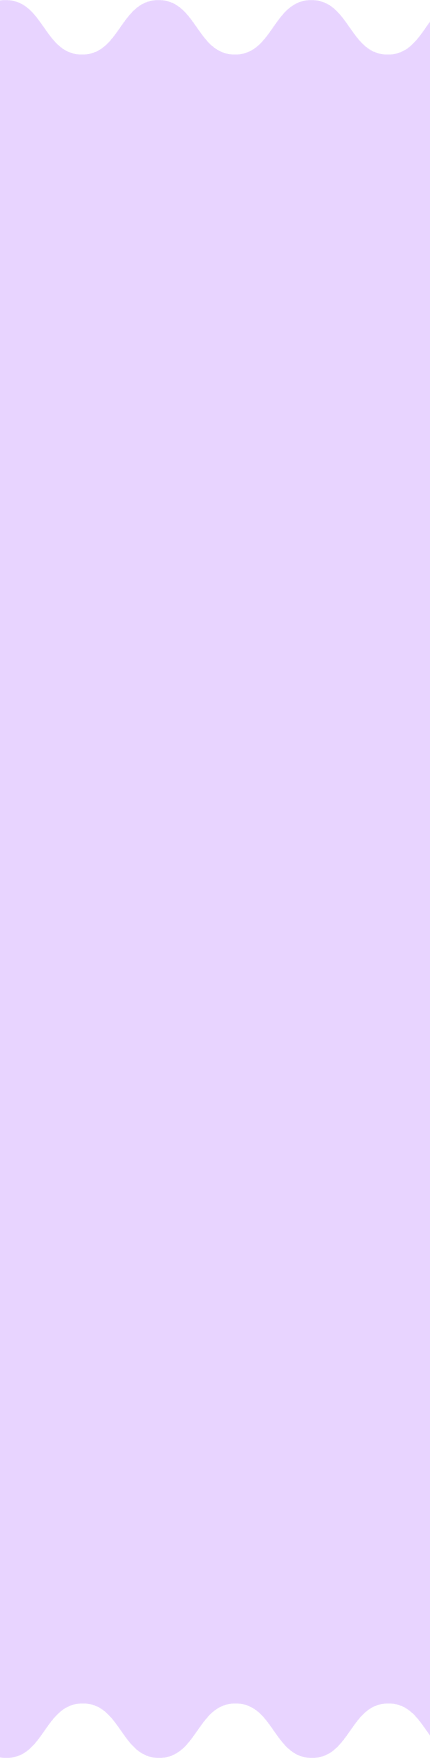
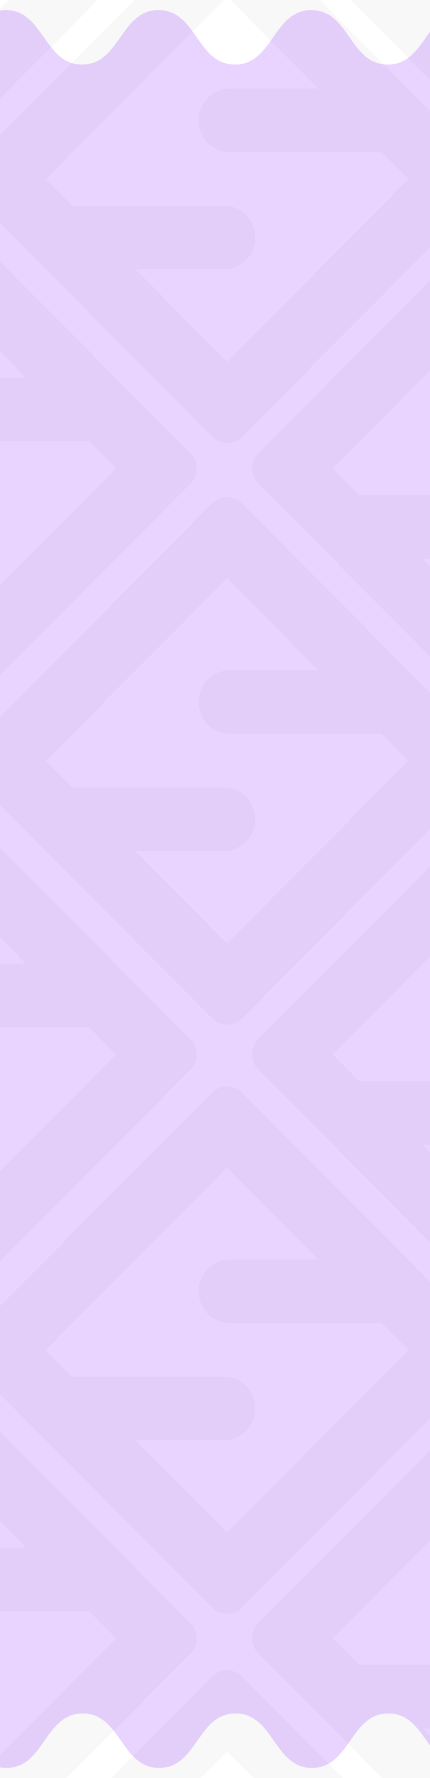
first commit

diff --git a/src/components/CallToAction.tsx b/src/components/CallToAction.tsx
@@ -2,57 +2,194 @@ import React from 'react'
 import { Button } from './ui/Button'
 import { motion } from 'framer-motion'
 import Image from 'next/image'
+import { useMediaQuery } from '@/hooks/useMediaQuery'
+
 function CallToAction() {
+  const isMD = useMediaQuery('(min-width: 768px)')
+  const containerVariants = {
+    hidden: { opacity: 0 },
+    visible: {
+      opacity: 1,
+      transition: {
+        staggerChildren: 0.2,
+        delayChildren: 0.1,
+      },
+    },
+  }
+
+  const itemVariants = {
+    hidden: { opacity: 0, y: 30 },
+    visible: {
+      opacity: 1,
+      y: 0,
+      transition: {
+        duration: 0.6,
+        ease: [0.25, 0.46, 0.45, 0.94],
+      },
+    },
+  }
+
+  const cardVariants = {
+    hidden: { opacity: 0, scale: 0.8, rotateY: -15 },
+    visible: {
+      opacity: 1,
+      scale: 1,
+      rotateY: 0,
+      transition: {
+        duration: 0.8,
+        ease: [0.25, 0.46, 0.45, 0.94],
+      },
+    },
+  }
+
+  const floatingVariants = {
+    animate: {
+      y: [-5, 5, -5],
+      rotate: [-1, 1, -1],
+      transition: {
+        duration: 6,
+        repeat: Infinity,
+        ease: 'easeInOut',
+      },
+    },
+  }
+
   return (
-    <section className="bg-[url('/assets/bg3sm.png')] md:bg-[url('/assets/bg3.png')] bg-contain bg-no-repeat bg-center min-h-screen p-20">
+    <section
+      className="py-[80px] relative min-h-screen flex flex-col justify-center items-center overflow-hidden"
+      role="region"
+      aria-labelledby="community-heading"
+    >
+      {/* Background */}
+      <div
+        className="absolute inset-0 h-full"
+        style={{
+          backgroundImage: isMD
+            ? 'url("/assets/bg3.png")'
+            : 'url("/assets/bg3sm.png")',
+          backgroundRepeat: 'no-repeat',
+          backgroundSize: '100% 100%',
+          backgroundBlendMode: 'overlay',
+        }}
+      />
+
       <motion.div
-        initial={{ opacity: 0, y: 30 }}
-        whileInView={{ opacity: 1, y: 0 }}
-        viewport={{ once: true, margin: '-100px' }}
-        transition={{ duration: 0.8, ease: 'easeOut' }}
-        className="text-center mb-12 lg:mb-16 px-4"
+        variants={containerVariants}
+        initial="hidden"
+        whileInView="visible"
+        viewport={{ once: true, margin: '-50px' }}
+        className="container mx-auto px-4 py-12 md:py-20 relative z-10"
       >
-        <h2
-          id="community-heading"
-          className="text-[#271437] text-3xl sm:text-4xl lg:text-6xl xl:text-7xl font-black leading-tight tracking-tight mb-4"
-        >
-          JOIN AN ECOSYSTEM THAT KEEPS GIVING
-        </h2>
-
-        <motion.p
-          initial={{ opacity: 0 }}
-          whileInView={{ opacity: 1 }}
-          transition={{ delay: 0.3, duration: 0.6 }}
-          className="text-[#402562] text-sm sm:text-base mb-8 max-w-md mx-auto"
-        >
-          Our values are more than just words—they are the guiding principles
-          that shape our company culture, help us navigate challenges, and
-          ensure we stay true to our purpose.
-        </motion.p>
-
-        <motion.div
-          initial={{ opacity: 0, scale: 0.8 }}
-          animate={{ opacity: 1, scale: 1 }}
-          transition={{ duration: 0.6, delay: 1 }}
-        >
-          <Button
-            size="lg"
-            variant="secondary"
-            aria-label="Sign Up on Squads"
-            className="text-[#2A343F] bg-light-green hover:bg-light-green/80 font-bold px-8 py-4 rounded-md text-lg transition-all duration-300 transform hover:scale-105 hover:shadow-2xl"
+        {/* Header Section */}
+        <div className="text-center mb-12 md:mb-16 lg:mb-20">
+          <motion.h2
+            variants={itemVariants}
+            id="community-heading"
+            className="text-[#271437] text-3xl sm:text-4xl md:text-5xl lg:text-6xl xl:text-7xl font-black leading-[1.1] tracking-tight mb-6 md:mb-8 max-w-4xl mx-auto"
           >
-            Sign Up on Squads
-            <Image
-              src="/assets/cash.png"
-              alt="Play cash"
-              width={20}
-              height={20}
-              className="ml-2"
-            />
-          </Button>
-        </motion.div>
+            JOIN AN ECOSYSTEM THAT KEEPS GIVING
+          </motion.h2>
+
+          <motion.p
+            variants={itemVariants}
+            className="text-[#402562] text-sm sm:text-base md:text-lg leading-relaxed mb-8 md:mb-12 max-w-4xl mx-auto px-4"
+          >
+            Our values are more than just words—they are the guiding principles
+            that shape our company culture, help us navigate challenges, and
+            ensure we stay true to our purpose.
+          </motion.p>
+
+          <motion.div variants={itemVariants} className="mb-12 md:mb-16">
+            <Button
+              size="lg"
+              variant="secondary"
+              aria-label="Sign Up on Squads to join our ecosystem"
+              className="text-[#2A343F] bg-light-green hover:bg-light-green/80 font-bold px-6 py-3 md:px-8 md:py-4 rounded-md text-base md:text-lg transition-all duration-300 transform hover:scale-105 hover:shadow-lg active:scale-95 focus:outline-none"
+            >
+              Sign Up on Squads
+              <Image
+                src="/assets/cash.png"
+                alt=""
+                width={20}
+                height={20}
+                className="ml-2"
+                loading="lazy"
+              />
+            </Button>
+          </motion.div>
+        </div>
+
+        {/* Cards Section */}
+        <div className="relative">
+          <div className="h-fit flex flex-col lg:flex-row justify-center items-center w-full py-10 px-4">
+            {/* Promo Cash */}
+            <div className="relative w-full max-w-[320px] aspect-[6/7] translate-y-[15%] lg:translate-x-[10%]">
+              <motion.div
+                variants={cardVariants}
+                animate={floatingVariants.animate}
+                className="relative w-full h-full"
+              >
+                <Image
+                  src="/assets/cta/promo-card.png"
+                  alt="₦500 Promo Cash"
+                  fill
+                  className="object-contain"
+                  loading="lazy"
+                  quality={90}
+                />
+              </motion.div>
+            </div>
+            {/* Deposit Boost */}
+            <div className="relative w-full max-w-[320px] aspect-[6/7] z-10 lg:translate-y-[10%]">
+              <motion.div
+                variants={cardVariants}
+                animate={{
+                  y: [0, -8, 0],
+                  transition: {
+                    duration: 5,
+                    repeat: Infinity,
+                    ease: 'easeInOut',
+                    delay: 1,
+                  },
+                }}
+                className="relative w-full h-full"
+              >
+                <Image
+                  src="/assets/cta/deposit-boost-card.png"
+                  alt="Deposit Boost"
+                  fill
+                  loading="lazy"
+                  className="object-contain"
+                  quality={90}
+                />
+              </motion.div>
+            </div>
+            {/* Sneaky Cash */}
+            <div className="relative w-full max-w-[320px] aspect-[6/7] max-lg:-rotate-[12.71deg] -translate-y-[13%] lg:-translate-x-[17%]">
+              <motion.div
+                variants={cardVariants}
+                animate={{
+                  ...floatingVariants.animate,
+                  transition: {
+                    ...floatingVariants.animate.transition,
+                    delay: 2,
+                  },
+                }}
+                className="relative w-full h-full"
+              >
+                <Image
+                  src="/assets/cta/sneaky-cash-card.png"
+                  alt="Sneaky Cash"
+                  fill
+                  loading="lazy"
+                  className="object-contain"
+                  quality={90}
+                />
+              </motion.div>
+            </div>
+          </div>
+        </div>
       </motion.div>
-      <div></div>
     </section>
   )
 }

diff --git a/src/components/Community.tsx b/src/components/Community.tsx
@@ -68,10 +68,10 @@ const Community: React.FC = () => {
                 transition={{ duration: 0.6, delay: 0.1 }}
                 className="bg-[#1F2935] border-2 border-[#232D39] rounded-xl w-full lg:w-[340px] lg:flex-shrink-0"
               >
-                <div className="bg-[url('/assets/card1bg.png')] bg-cover bg-center p-4 sm:p-6 flex flex-col h-full w-full">
+                <div className="bg-[url('/assets/community/card1bg.png')] bg-cover bg-center p-4 sm:p-6 flex flex-col h-full w-full">
                   <div className="relative w-[80px] sm:w-[100px] h-[80px] sm:h-[100px] mb-4 sm:mb-6 ">
                     <Image
-                      src="/assets/register.svg"
+                      src="/assets/community/register.svg"
                       alt="Register"
                       fill
                       className="object-contain"
@@ -101,10 +101,10 @@ const Community: React.FC = () => {
                 transition={{ duration: 0.6, delay: 0.2 }}
                 className="bg-[#1F2935] border border-[#232D39] rounded-xl flex-1"
               >
-                <div className="bg-[url('/assets/card2bg.png')] bg-cover bg-center lg:pl-0 pb-[0_!important] h-full w-full p-4 sm:p-6 flex max-lg:flex-col-reverse sm:items-center gap-4 sm:gap-6">
+                <div className="bg-[url('/assets/community/card2bg.png')] bg-cover bg-center lg:pl-0 pb-[0_!important] h-full w-full p-4 sm:p-6 flex max-lg:flex-col-reverse sm:items-center gap-4 sm:gap-6">
                   <div className="relative w-full w-full lg:w-[200px] h-[290px] sm:h-[360px] md:h-[460px] lg:h-full flex-shrink-0">
                     <Image
-                      src={`/assets/fundAccount${isLG ? '' : 'sm'}.svg`}
+                      src={`/assets/community/fundAccount${isLG ? '' : 'sm'}.svg`}
                       alt="Fund Account"
                       fill
                       className="lg:object-contain object-top object-cover lg:object-left"
@@ -137,10 +137,10 @@ const Community: React.FC = () => {
                 transition={{ duration: 0.6, delay: 0.3 }}
                 className="bg-[#1F2935] border border-[#232D39] rounded-xl flex-1"
               >
-                <div className="bg-[url('/assets/card3bg.png')] bg-cover bg-center p-4 sm:p-6 lg:pl-0 flex flex-col items-start gap-4 sm:gap-6 h-full w-full">
+                <div className="bg-[url('/assets/community/card3bg.png')] bg-cover bg-center p-4 sm:p-6 lg:pl-0 flex flex-col items-start gap-4 sm:gap-6 h-full w-full">
                   <div className="relative w-full h-[120px] sm:h-[160px] flex-shrink-0 overflow-hidden">
                     <Image
-                      src="/assets/playerEntry.svg"
+                      src="/assets/community/playerEntry.svg"
                       alt="Create Your Entry"
                       fill
                       className="object-contain object-left translate-x-0 lg:-translate-x-[7%] px-4 sm:px-6 lg:px-0"
@@ -170,7 +170,7 @@ const Community: React.FC = () => {
                 transition={{ duration: 0.6, delay: 0.4 }}
                 className="bg-[#1F2935] border border-[#232D39] rounded-xl w-full lg:w-[340px] lg:flex-shrink-0"
               >
-                <div className="bg-[url('/assets/card1bg.png')] bg-cover bg-center p-4 sm:p-6 pb-[0_!important] flex flex-col h-full w-full">
+                <div className="bg-[url('/assets/community/card1bg.png')] bg-cover bg-center p-4 sm:p-6 pb-[0_!important] flex flex-col h-full w-full">
                   <div className="space-y-2 sm:space-y-3 mb-4 sm:mb-6">
                     <span className="inline-block bg-[#2F3843] text-center text-xs sm:text-sm font-medium px-2 sm:px-1 py-1.5 sm:py-2 rounded w-[70px] sm:w-[84px]">
                       Cash Out
@@ -185,21 +185,21 @@ const Community: React.FC = () => {
                   </div>
                   <div className="relative w-full h-[100px] sm:h-[120px] mt-auto">
                     <Image
-                      src="/assets/cashOut1.svg"
+                      src="/assets/community/cashOut1.svg"
                       alt="Withdraw Winnings"
                       fill
                       className="z-10 object-contain -translate-x-[10%]"
                       sizes="(max-width: 1024px) 100vw, 340px"
                     />
                     <Image
-                      src="/assets/cashOut2.svg"
+                      src="/assets/community/cashOut2.svg"
                       alt="Withdraw Winnings"
                       fill
                       className="z-20 object-contain"
                       sizes="(max-width: 1024px) 100vw, 340px"
                     />
                     <Image
-                      src="/assets/cashOut3.svg"
+                      src="/assets/community/cashOut3.svg"
                       alt="Withdraw Winnings"
                       fill
                       className=" object-contain"

diff --git a/src/components/WhyUs.tsx b/src/components/WhyUs.tsx
@@ -41,7 +41,7 @@ const features: FeatureCard[] = [
         />
       </span>
     ),
-    icon: '/assets/numerousOpp.svg',
+    icon: '/assets/whyus/numerousOpp.svg',
     cardStyle: {
       bgColor: 'bg-gradient-to-b from-[#232D39] to-[#000000]',
       textColor: 'text-[#FAFEFA]',
@@ -57,7 +57,7 @@ const features: FeatureCard[] = [
     },
     description:
       "Say goodbye to waiting! With Squads, you can cash out your funds instantly—any time, any day. Whether it's a weekend or midnight, your money is just a tap away.🚀",
-    icon: '/assets/instantCashout.svg',
+    icon: '/assets/whyus/instantCashout.svg',
     cardStyle: {
       bgColor: 'bg-gradient-to-br from-[#104333] to-[#28A981]',
       textColor: 'text-text-primary',
@@ -74,7 +74,7 @@ const features: FeatureCard[] = [
     },
     description:
       "Don't let slow transactions hold you back. With Squads, you can deposit funds instantly and stay in the game. Your winning streak starts here!🚀",
-    icon: '/assets/fastDeposit.svg',
+    icon: '/assets/whyus/fastDeposit.svg',
     cardStyle: {
       bgColor: 'bg-white',
       textColor: 'text-[#20262E]',
@@ -96,7 +96,7 @@ const features: FeatureCard[] = [
         referral link🤑
       </span>
     ),
-    icon: '/assets/bonusesRewards.svg',
+    icon: '/assets/whyus/bonusesRewards.svg',
     cardStyle: {
       bgColor: 'bg-gradient-to-b from-[#FFC2F7] to-[#FFFBFD]',
       textColor: 'text-[#353E49]',
